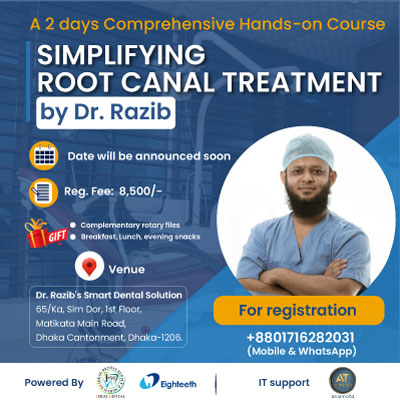
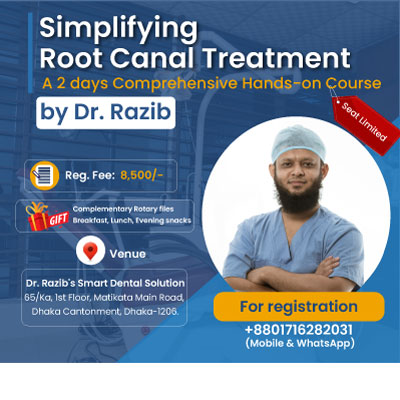
version 2 with success msg

diff --git a/index.html b/index.html
@@ -65,7 +65,7 @@
             <li class="list-group-item"> <i class="fa-solid fa-check" style="color: green"></i> Locating canals & finding accessory canals.</li>
             <li class="list-group-item"> <i class="fa-solid fa-check" style="color: green"></i> Root canal anatomy (Basic & Micro-CT image).</li>
             <li class="list-group-item"><i class="fa-solid fa-check" style="color: green"></i>  Metallurgy of File & Endomotor selection.</li>
-            <li class="list-group-item"> <i class="fa-solid fa-check" style="color: green"></i> Patency & Glide path management in root canal treatment.</li>
+           
         
           </ul>
         <p>
@@ -73,6 +73,7 @@
           <p class="h3 bg-warning">  <strong> Day 2 </strong>  </p>
 
           <ul class="list-group">
+            <li class="list-group-item"> <i class="fa-solid fa-check" style="color: green"></i> Negotiation, patency & Glide path management in root canal treatment.</li>
             <li class="list-group-item"> <i class="fa-solid fa-check" style="color: green"></i>  Working length determination (specially by using Electronic Apex locator).</li>
             <li class="list-group-item"><i class="fa-solid fa-check" style="color: green"></i>  Simplifying shaping & cleaning by using rotary files.</li>
             <li class="list-group-item"> <i class="fa-solid fa-check" style="color: green"></i> Irrigation & disinfection protocol (latest irrigation techniques & activation methods).</li>
@@ -93,29 +94,30 @@
       <!-- enroll image -->
       <div class="col-md-6 p-4 text-center ">
 
-        <img class="img-fluid" src="images/hands_on_banner.jpg" alt="">
+        
         <div class="p-4 border">
 
             <!-- Button trigger modal -->
 
             <div class="border p-2 bg-light">
 
-                <div>
-                  <p class="h3 mb-3 bg-warning"> Course Fee: 8500tk </p>
-                </div>
-                <div class="row">
-                  <p class="h2"><i class="fa-solid fa-phone"></i> Call for more info </p>
+                
+                <div class="row mb-4">
+                  <button type="button" class="btn btn-success btn-lg mb-3" data-bs-toggle="modal" data-bs-target="#exampleModal">
+                    <p class="h2"> Registration Form</p>
+                    <!-- <p> Seat limited to only 3 persons</p> -->
+                    </button>
+                  <p class="h4"><i class="fa-solid fa-phone"></i> Call us for more information </p>
                   <p class="h2" > <a href="tel:+8801716282031" >+8801716282031 </a> </p>
-                  <p class="text-danger h3"> Please contact us & then complete your payment before enrollment.</p>
+                  <!-- <p class="text-danger h3"> Please contact us & then complete your payment before registration.</p> -->
                   <!-- <p>Send money through bkash. Mention your Name & BM&DC no. on reference.</p> -->
                   
                 </div>
 
-                <button type="button" class="btn btn-success btn-lg mb-3" data-bs-toggle="modal" data-bs-target="#exampleModal">
-                <p class="h2"> Enroll Now</p>
-                <p> Seat limited to only 3 persons</p>
-                </button>
+                <img class="img-fluid" src="images/hands_on_banner-3.jpg" alt="">
             </div>
+
+            
 
             <div class="row mt-3 text-center border">
               <p class="h3 mt-2">Powered by </p>
@@ -145,60 +147,60 @@
                           <div class="container ">
 
                             <h1 class="text-center">Registration form</h1>
-                            <form id="formValidation" action="https://docs.google.com/forms/d/e/1FAIpQLSfIegqHXyuVyT52WdEklNxjp5a60WdyBNVG19vMiLgPj5zjxA/formResponse" target="hidden_iframe">
+                            <form id="formValidation" action="https://docs.google.com/forms/d/e/1FAIpQLScLPFBZikVua8zkfVTktq6jlGDcyTcFAZpqbXKAytB7mwup7w/formResponse" target="hidden_iframe">
                                 <div class="row mb-2">
                                   <label for="inputName3" class="col-sm-2 col-form-label">Name</label>
                                   <div class="col-sm-10">
-                                    <input type="name" name="entry.1730097595" class="form-control" id="inputName3" required>
+                                    <input type="name" name="entry.2031438042" class="form-control" id="inputName3" required>
+                                  </div>
+                                </div> 
+                                <div class="row mb-2">
+                                  <label for="inputmobile3" class="col-sm-2 col-form-label">Email</label>
+                                  <div class="col-sm-10">
+                                    <input type="mobile" name="entry.1727434823" class="form-control" id="inputemail3" required>
                                   </div>
                                 </div>
                               
                                 <div class="row mb-2">
-                                  <label for="inputEmail3" class="col-sm-2 col-form-label">email</label>
-                                  <div class="col-sm-10">
-                                    <input type="email" name="entry.620478327" class="form-control" id="inputEmail3" required>
-                                  </div>
-                                </div>
-                                <div class="row mb-2">
                                   <label for="inputmobile3" class="col-sm-2 col-form-label">Mobile</label>
                                   <div class="col-sm-10">
-                                    <input type="mobile" name="entry.2056088669" class="form-control" id="inputmobile3" required>
+                                    <input type="mobile" name="entry.1647897359" class="form-control" id="inputmobile3" required>
                                   </div>
                                 </div>
                                 <div class="row mb-2">
                                   <label for="inputAddess3" class="col-sm-2 col-form-label">Address</label>
                                   <div class="col-sm-10">
-                                    <input type="name" name="entry.792629263" class="form-control" id="inputAddress3" required>
+                                    <input type="name" name="entry.614239969" class="form-control" id="inputAddress3" required>
                                   </div>
                                 </div>
                                 <div class="row mb-2">
                                   <label for="inputDentalClg3" class="col-sm-2 col-form-label">Dental college</label>
                                   <div class="col-sm-10">
-                                    <input type="name" name="entry.127162703" class="form-control" id="inputDentalclg3" required>
+                                    <input type="name" name="entry.134783324" class="form-control" id="inputDentalclg3" required>
                                   </div>
                                 </div>
                                 <div class="row mb-2">
                                   <label for="inputSesion3" class="col-sm-2 col-form-label">Session</label>
                                   <div class="col-sm-10">
-                                    <input type="name" name="entry.1833341440" class="form-control" id="inputSession3" required>
+                                    <input type="name" name="entry.1146793134" class="form-control" id="inputSession3" required>
                                   </div>
                                 </div>
                                 <div class="row mb-2">
                                   <label for="inputPassyear3" class="col-sm-2 col-form-label">BDS passing year</label>
                                   <div class="col-sm-10">
-                                    <input type="name" name="entry.1127522510" class="form-control" id="inputPassyear3" required>
+                                    <input type="name" name="entry.1292695245" class="form-control" id="inputPassyear3" required>
                                   </div>
                                 </div>
                                 <div class="row mb-2">
                                   <label for="inputBM&DC3" class="col-sm-2 col-form-label">BM&DC Reg</label>
                                   <div class="col-sm-10">
-                                    <input type="name" name="entry.1899100201" class="form-control" id="inputBM&DC3" required>
+                                    <input type="name" name="entry.2007588588" class="form-control" id="inputBM&DC3" required>
                                   </div>
                                 </div>
                                 <div class="row mb-2">
                                   <label for="inputPractice3" class="col-sm-4 col-form-label">Where you practice? (Dental chamber name & Address)</label>
                                   <div class="col-sm-8">
-                                    <input type="name" name="entry.1232484054" class="form-control" id="inputpractice3" required>
+                                    <input type="name" name="entry.461141351" class="form-control" id="inputpractice3" required>
                                   </div>
                                 </div>
                               
@@ -249,9 +251,11 @@
 <script>
   $(document).ready(function(){
     $("form").submit(function(){
-      alert("To confirm click ok");
-      window.location.reload(true);
-     
+      // alert("To confirm click ok");
+      // window.location.reload(true);
+      window.location.href = 'success.html';
+      // window.location.reload(true) ;
+      
     });
    
   });

diff --git a/success.html b/success.html
@@ -1,0 +1,60 @@
+<!doctype html>
+<html lang="en">
+  <head>
+    <meta charset="utf-8">
+    <meta name="viewport" content="width=device-width, initial-scale=1">
+    <title>Registration</title>
+   
+    <link href="https://cdn.jsdelivr.net/npm/bootstrap@5.2.0/dist/css/bootstrap.min.css" rel="stylesheet" integrity="sha384-gH2yIJqKdNHPEq0n4Mqa/HGKIhSkIHeL5AyhkYV8i59U5AR6csBvApHHNl/vI1Bx" crossorigin="anonymous">
+    <script src="https://ajax.googleapis.com/ajax/libs/jquery/3.6.0/jquery.min.js"></script>
+    <link rel="stylesheet" href="https://cdnjs.cloudflare.com/ajax/libs/font-awesome/6.2.0/css/all.min.css" integrity="sha512-xh6O/CkQoPOWDdYTDqeRdPCVd1SpvCA9XXcUnZS2FmJNp1coAFzvtCN9BmamE+4aHK8yyUHUSCcJHgXloTyT2A==" crossorigin="anonymous" referrerpolicy="no-referrer" />
+    <link rel="stylesheet" href="style,css">
+  </head>
+  <body>
+    
+
+    <!--  header start here   -->
+    
+    <header class="container">
+        <div class="text-center">
+           <img src="images/web_bannar_2.jpg" class="responsive" alt=""> 
+        </div>
+        <div class="row success p-4">
+            <div class="card text-center">
+               <p class="h3">Thank you!</p>
+                <p class="h3">Your Registration is done</p>
+                <p class="h3">Please contact for confirmation</p>
+                <p class="h2" > <a href="tel:+8801716282031" >+8801716282031 </a> </p>
+
+            </div>
+        </div>
+        
+
+      
+
+    </header>
+
+
+
+
+    <footer class="text-center">
+        <p class="bg-secondary text-white p-4">Copyright ©  2022  By Dr. Razib || IT support by  <a class="text-black" href="https://www.facebook.com/anonnota?_rdc=1&_rdr">AnonnoTa</a>  </p>
+    </footer>
+ 
+
+   
+
+    <script src="https://cdn.jsdelivr.net/npm/@popperjs/core@2.11.5/dist/umd/popper.min.js" integrity="sha384-Xe+8cL9oJa6tN/veChSP7q+mnSPaj5Bcu9mPX5F5xIGE0DVittaqT5lorf0EI7Vk" crossorigin="anonymous"></script>
+<script src="https://cdn.jsdelivr.net/npm/bootstrap@5.2.0/dist/js/bootstrap.min.js" integrity="sha384-ODmDIVzN+pFdexxHEHFBQH3/9/vQ9uori45z4JjnFsRydbmQbmL5t1tQ0culUzyK" crossorigin="anonymous"></script>
+
+<script src="https://cdnjs.cloudflare.com/ajax/libs/jquery/3.6.1/jquery.min.js" integrity="sha512-aVKKRRi/Q/YV+4mjoKBsE4x3H+BkegoM/em46NNlCqNTmUYADjBbeNefNxYV7giUp0VxICtqdrbqU7iVaeZNXA==" crossorigin="anonymous" referrerpolicy="no-referrer"></script>
+<script src="https://cdnjs.cloudflare.com/ajax/libs/jquery-validate/1.19.5/jquery.validate.min.js"></script>
+
+
+
+
+
+
+  
+</body>
+</html>

diff --git a/style.css b/style.css
@@ -6,3 +6,7 @@ https://docs.google.com/forms/d/e/1FAIpQLSfIegqHXyuVyT52WdEklNxjp5a60WdyBNVG19vM
 
 https://docs.google.com/forms/d/e/1FAIpQLSfIegqHXyuVyT52WdEklNxjp5a60WdyBNVG19vMiLgPj5zjxA/viewform?usp=pp_url&entry.1730097595=tareq&entry.620478327=dr.tareq8092@gmail.com&entry.2056088669=01723840249&entry.792629263=kuril&entry.127162703=PDC&entry.1833341440=11-12&entry.1127522510=2016&entry.1899100201=8092&entry.1232484054=pdc */
 
+/* https://docs.google.com/forms/d/e/1FAIpQLScLPFBZikVua8zkfVTktq6jlGDcyTcFAZpqbXKAytB7mwup7w/viewform?usp=pp_url&entry.2031438042=Tareq&entry.1647897359=01614048774&entry.614239969=Kuril&entry.134783324=PDC&entry.1146793134=11-12&entry.1292695245=16&entry.2007588588=8092&entry.461141351=PDC
+
+https://docs.google.com/forms/d/e/1FAIpQLScLPFBZikVua8zkfVTktq6jlGDcyTcFAZpqbXKAytB7mwup7w/viewform?usp=pp_url&entry.2031438042=Tareq&entry.1727434823=dr.tareq8092@gmail.com&entry.1647897359=01614048774&entry.614239969=Kuril&entry.134783324=PDC&entry.1146793134=2011-12&entry.1292695245=2016&entry.2007588588=8092&entry.461141351=PDC */
+
